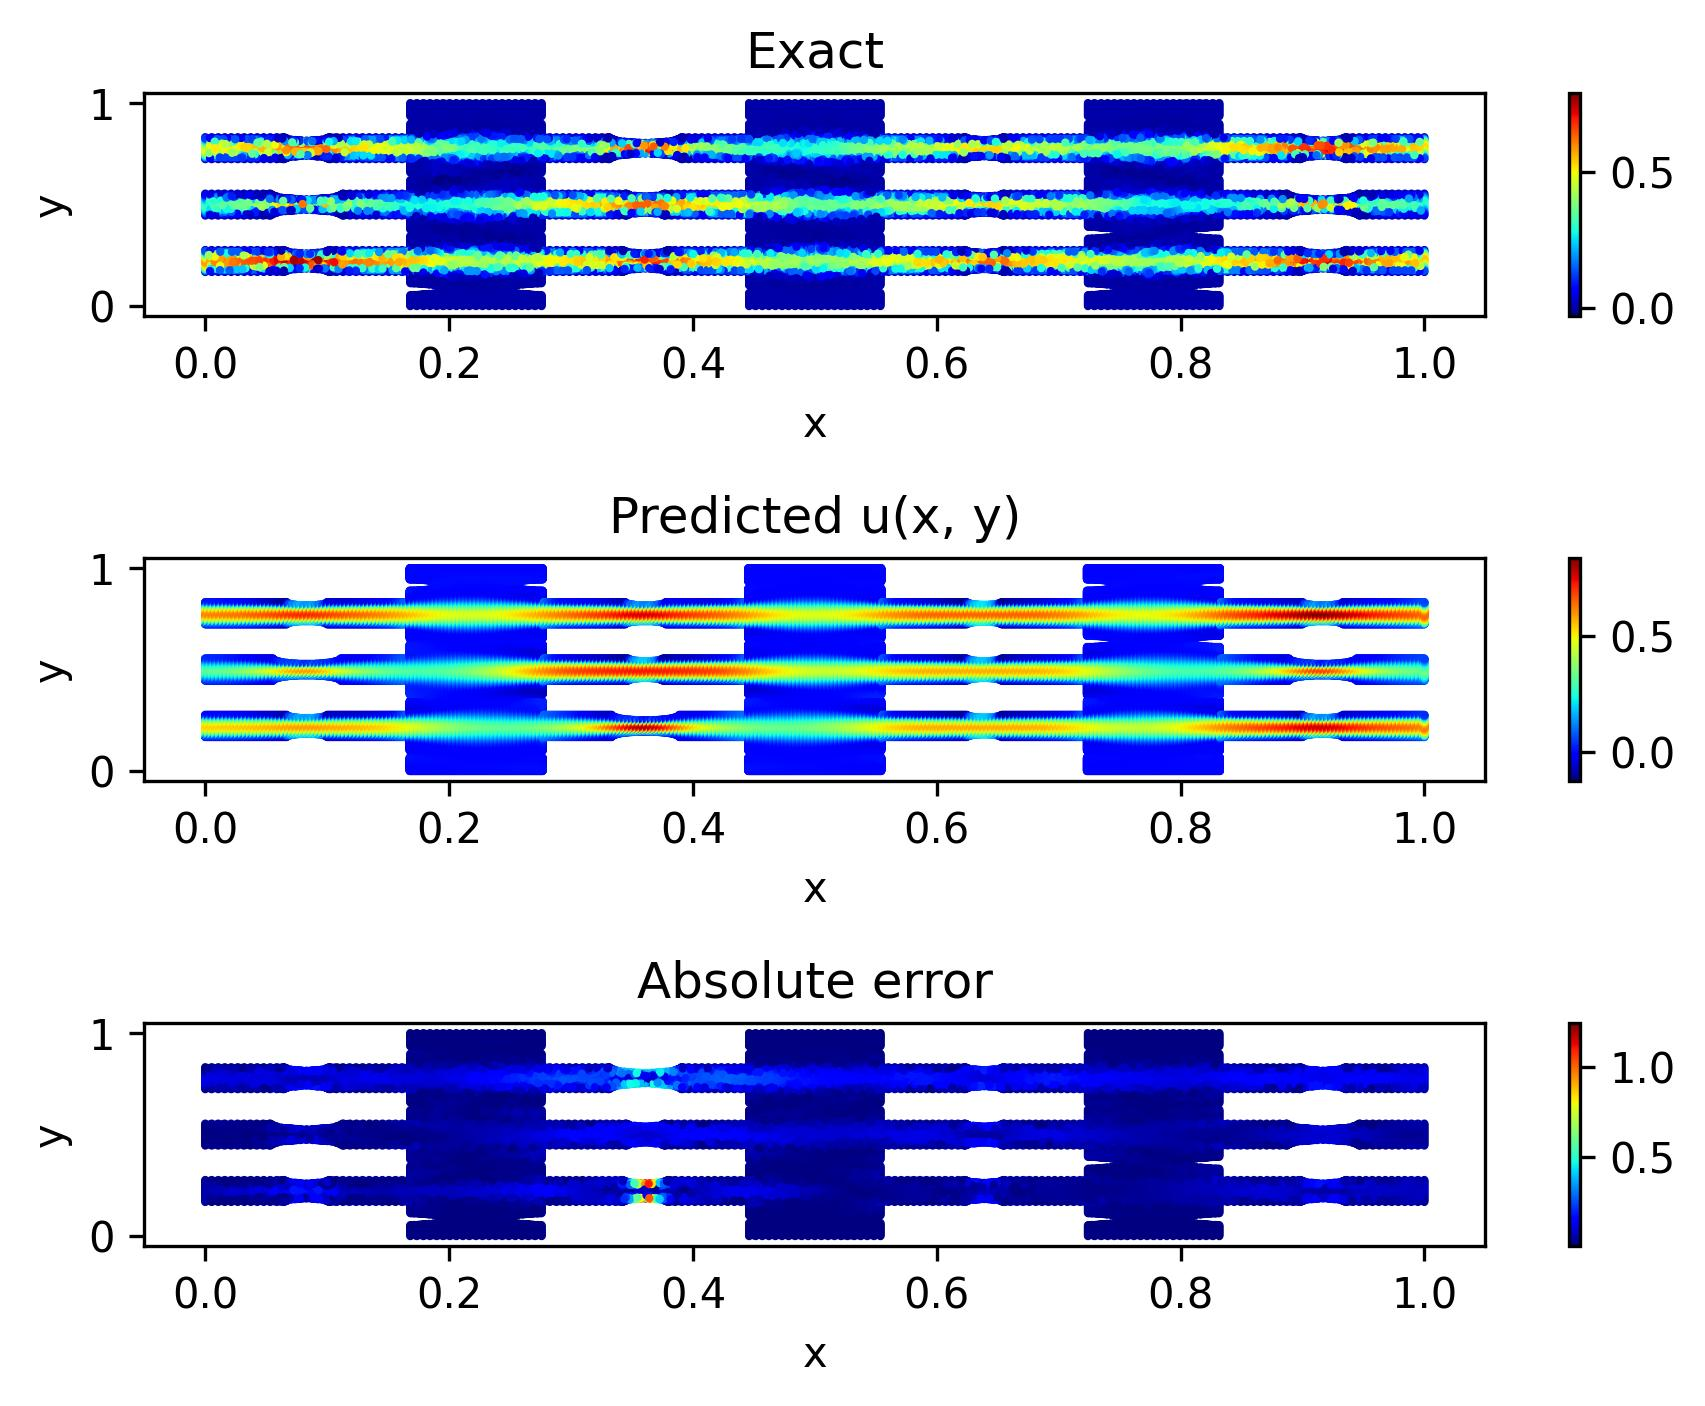
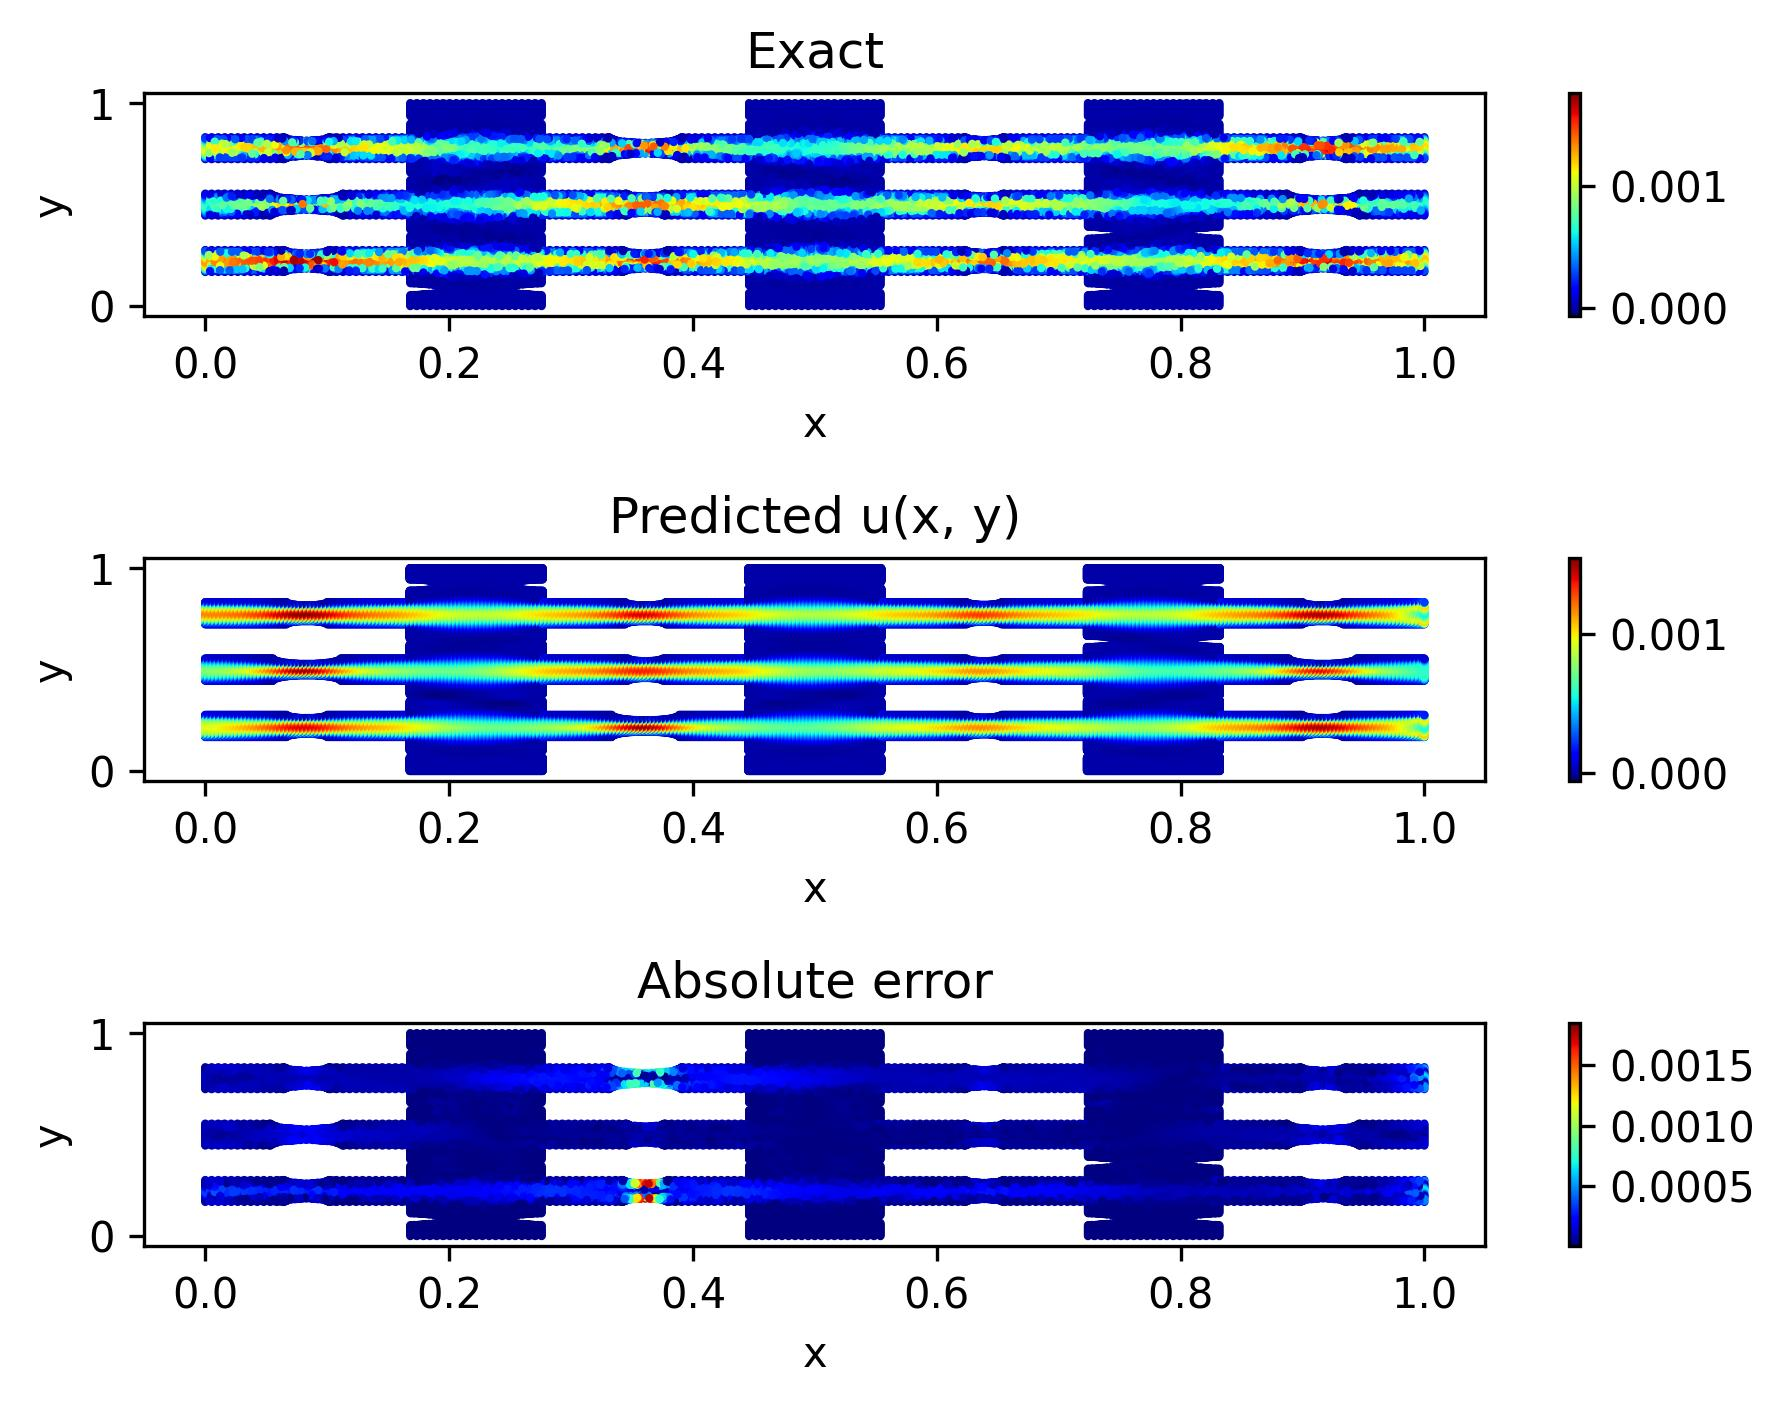
geom3x3_2ph_3 rodando, conferir os resultados ainda

diff --git a/examples/geom3x3_2ph_3/models.py b/examples/geom3x3_2ph_3/models.py
@@ -70,7 +70,7 @@ class NavierStokes2DwSat(ForwardIVP):
         v = outputs[1]
         p = outputs[2]
         s = outputs[3]
-        return u, v, p, s
+        return u*0.001, v*0.0001, p, s
 
     def u_net(self, params, t, x, y):
         u, _, _, _ = self.neural_net(params, t, x, y)
@@ -306,9 +306,9 @@ class NavierStokes2DwSat(ForwardIVP):
             )
 
         ntk_dict = {
-            # "u_ic": u_ic_ntk,
-            # "v_ic": v_ic_ntk,
-            # "p_ic": p_ic_ntk,
+            "u_ic": u_ic_ntk,
+            "v_ic": v_ic_ntk,
+            "p_ic": p_ic_ntk,
             "s_ic": s_ic_ntk,
             "p_in": p_in_ntk,
             "p_out": p_out_ntk,
@@ -339,12 +339,12 @@ class NavierStokes2DwSat(ForwardIVP):
 
         u_ic_pred = self.u0_pred_fn(params, 0.0, coords_batch[:, 0], coords_batch[:, 1])
         v_ic_pred = self.v0_pred_fn(params, 0.0, coords_batch[:, 0], coords_batch[:, 1])
-        # p_ic_pred = self.p0_pred_fn(params, 0.0, coords_batch[:, 0], coords_batch[:, 1])
+        p_ic_pred = self.p0_pred_fn(params, 0.0, coords_batch[:, 0], coords_batch[:, 1])
         s_ic_pred = self.s0_pred_fn(params, 0.0, coords_batch[:, 0], coords_batch[:, 1])
 
         u_ic_loss = jnp.mean((u_ic_pred - u_batch) ** 2)
         v_ic_loss = jnp.mean((v_ic_pred - v_batch) ** 2)
-        # p_ic_loss = jnp.mean((p_ic_pred - p_batch) ** 2)
+        p_ic_loss = jnp.mean((p_ic_pred - p_batch) ** 2)
         s_ic_loss = jnp.mean((s_ic_pred - s_batch) ** 2)
 
         # inflow outflow loss
@@ -403,9 +403,9 @@ class NavierStokes2DwSat(ForwardIVP):
             rs_loss = jnp.mean(rs_pred**2)
 
         loss_dict = {
-            # "u_ic": u_ic_loss,
-            # "v_ic": v_ic_loss,
-            # "p_ic": p_ic_loss,
+            "u_ic": u_ic_loss,
+            "v_ic": v_ic_loss,
+            "p_ic": p_ic_loss,
             "s_ic": s_ic_loss,
             "p_in": p_in_loss,
             "p_out": p_out_loss,

diff --git a/examples/geom3x3/utils.py b/examples/geom3x3/utils.py
@@ -46,16 +46,24 @@ def get_coords():
     wall_coords[:,1] = np.abs(-1*wall_coords[:,1])
     contour_points[:,1] = np.abs(-1*contour_points[:,1])
 
-    return jax.device_put(X/1000/1000), \
-            jax.device_put(inflow_coords/1000/1000), \
-            jax.device_put(outflow_coords/1000/1000), \
-            jax.device_put(wall_coords/1000/1000), \
-            jax.device_put(contour_points/1000/1000)
+    return jax.device_put(X), \
+            jax.device_put(inflow_coords), \
+            jax.device_put(outflow_coords), \
+            jax.device_put(wall_coords), \
+            jax.device_put(contour_points)
 
 
 def get_dataset():
     u_fem, v_fem, p_fem, coords_fem = get_fem_data()
     coords, inflow_coords, outflow_coords, wall_coords, cylinder_coords = get_coords()
+    scale = 1/1000/1000
+    coords, inflow_coords, outflow_coords, wall_coords, cylinder_coords = (
+        coords*scale,
+        inflow_coords*scale, 
+        outflow_coords*scale, 
+        wall_coords*scale, 
+        cylinder_coords*scale
+    )
     mu = .1
     rho = 1000
 

diff --git a/examples/geom3x3/train.py b/examples/geom3x3/train.py
@@ -44,11 +44,12 @@ def train_and_evaluate(config: ml_collections.ConfigDict, workdir: str):
         mu, rho
     ) = get_dataset()
 
-    U_max = .0002#17#.25/3#visc .1
-    V_max = U_max/10*2
-    
+    dp = 10
     L_max = 900/1000/1000
-    pmax = mu*U_max/L_max
+    U_max = dp*L_max/mu
+    pmax =dp
+    Re = rho*dp*(L_max**2)/(mu**2)
+    print(f'Re={Re}')
     
     # print(pmax)
     # print(dsa)
@@ -61,7 +62,6 @@ def train_and_evaluate(config: ml_collections.ConfigDict, workdir: str):
     if config.nondim == True:
         # Nondimensionalization parameters
         U_star = U_max # 0.2  # characteristic velocity
-        V_star = V_max
         L_star = L_max #0.1  # characteristic length
         Re = rho * U_star * L_star / mu
 
@@ -78,7 +78,7 @@ def train_and_evaluate(config: ml_collections.ConfigDict, workdir: str):
         u_ref = u_fem / U_star
         v_ref = v_fem / U_star
         p_ref = p_fem / pmax
-        p_inflow = 10 / pmax
+        p_inflow = dp / pmax
 
     else:
         U_star = 1.0

diff --git a/examples/geom3x3_2ph_3/configs/default.py b/examples/geom3x3_2ph_3/configs/default.py
@@ -5,7 +5,7 @@ def get_config():
     """Get the default hyperparameter configuration."""
     config = ml_collections.ConfigDict()
 
-    config.mode = "eval"
+    config.mode = "train"
 
     # Weights & Biases
     config.wandb = wandb = ml_collections.ConfigDict()
@@ -19,8 +19,8 @@ def get_config():
     # Arch
     config.arch = arch = ml_collections.ConfigDict()
     arch.arch_name = "ModifiedMlp"
-    arch.num_layers = 9
-    arch.hidden_dim = 512
+    arch.num_layers = 10
+    arch.hidden_dim = 250
     arch.out_dim = 4
     arch.activation = "tanh"  # gelu works better than tanh for this problem
     arch.periodicity = False
@@ -56,9 +56,9 @@ def get_config():
     config.weighting = weighting = ml_collections.ConfigDict()
     weighting.scheme = "grad_norm"
     weighting.init_weights = {
-        # "u_ic": 1.0,
-        # "v_ic": 1.0,
-        # "p_ic": 1.0,
+        "u_ic": 1.0,
+        "v_ic": 1.0,
+        "p_ic": 1.0,
         "s_ic": 1.0,
         "p_in": 1.0,
         "p_out": 1.0,

diff --git a/examples/geom3x3/eval.py b/examples/geom3x3/eval.py
@@ -38,19 +38,18 @@ def evaluate(config: ml_collections.ConfigDict, workdir: str):
         mu, rho
     ) = get_dataset()
     
-
-    U_max = .0002#17#.25/3#visc .1
-    V_max = U_max/10*2
-    
+    dp = 10
     L_max = 900/1000/1000
-    pmax = mu*U_max/L_max
+    U_max = dp*L_max/mu
+    pmax =dp
+    Re = rho*dp*(L_max**2)/(mu**2)
+    print(f'Re={Re}')
     
 
     # Nondimensionalization
     if config.nondim == True:
         # Nondimensionalization parameters
         U_star = U_max # 0.2  # characteristic velocity
-        V_star = V_max
         L_star = L_max #0.1  # characteristic length
         Re = rho * U_star * L_star / mu
 
@@ -69,7 +68,7 @@ def evaluate(config: ml_collections.ConfigDict, workdir: str):
         u_ref = u_fem / U_star
         v_ref = v_fem / U_star
         p_ref = p_fem / pmax
-        p_inflow = 10 / pmax
+        p_inflow = dp / pmax
     else:
         U_star = 1.0
         L_star = 1.0

diff --git a/examples/geom3x3/configs/default.py b/examples/geom3x3/configs/default.py
@@ -7,7 +7,7 @@ def get_config():
     """Get the default hyperparameter configuration."""
     config = ml_collections.ConfigDict()
 
-    config.mode = "eval"
+    config.mode = "train"
 
     # Weights & Biases
     config.wandb = wandb = ml_collections.ConfigDict()
@@ -39,14 +39,14 @@ def get_config():
     optim.beta1 = 0.9
     optim.beta2 = 0.999
     optim.eps = 1e-8
-    optim.learning_rate = .85e-3
+    optim.learning_rate = 1e-3
     optim.decay_rate = 0.9
     optim.decay_steps = 2000
     optim.grad_accum_steps = 0
 
     # Training
     config.training = training = ml_collections.ConfigDict()
-    training.max_steps = 150000
+    training.max_steps = 100000
     training.batch_size_per_device = 1024
 
     # Weighting

diff --git a/examples/geom1x2_2ph_2/eval.py b/examples/geom1x2_2ph_2/eval.py
@@ -59,7 +59,7 @@ def evaluate(config: ml_collections.ConfigDict, workdir: str):
 
 
     D = 0# 10**(-9)
-    t1 = 3000
+    t1 = 6000
 
     T = 1.0  # final time
 
@@ -133,7 +133,7 @@ def evaluate(config: ml_collections.ConfigDict, workdir: str):
 
     # t_coords = jnp.linspace(0, t1, 20)[:-1]
     # t_coords = jnp.linspace(0, t1, 4)[:-1]
-    t_coords = jnp.array([0, .1, .2, .3, .4, .5, .6, .7, .8, .9, 1.])*t1/1 #
+    t_coords = jnp.array([0, .1, .2, .3, .4, .5, .6, .7, .8, .9, 1.])*t1/10 #
 
     u_pred_list = []
     v_pred_list = []

diff --git a/examples/geom3x3_2ph_3/train.py b/examples/geom3x3_2ph_3/train.py
@@ -179,12 +179,16 @@ def train_and_evaluate(config: ml_collections.ConfigDict, workdir: str):
     ) = get_dataset(pin=pin)
 
     fluid_params = (mu0, mu1, rho0, rho1)
-    U_max = .0002 
+    dp = 10
     L_max = 900/1000/1000
-    pmax = mu0*U_max/L_max#*36
-
-    D = 0# 10**(-9)
-    t1 = .01
+    U_max = dp*L_max/mu0
+    pmax =dp
+    Re = rho0*dp*(L_max**2)/(mu0**2)
+    print(f'Re={Re}')
+    
+    D = 0#
+    t1=150
+    
     # (
     #     fine_coords,
     #     fine_coords_near_cyl,

diff --git a/examples/geom3x3/models.py b/examples/geom3x3/models.py
@@ -54,7 +54,7 @@ class NavierStokes2D(ForwardBVP):
         u = outputs[0]
         v = outputs[1]
         p = outputs[2]
-        return u, v, p
+        return u*0.001, v*0.0001, p
 
     def u_net(self, params, x, y):
         u, _, _ = self.neural_net(params, x, y)

diff --git a/examples/geom1x2_2ph_2/configs/default.py b/examples/geom1x2_2ph_2/configs/default.py
@@ -5,7 +5,7 @@ def get_config():
     """Get the default hyperparameter configuration."""
     config = ml_collections.ConfigDict()
 
-    config.mode = "train"
+    config.mode = "eval"
 
     # Weights & Biases
     config.wandb = wandb = ml_collections.ConfigDict()

diff --git a/examples/geom1x2_2ph_2/train.py b/examples/geom1x2_2ph_2/train.py
@@ -187,7 +187,7 @@ def train_and_evaluate(config: ml_collections.ConfigDict, workdir: str):
     print(f'Re={Re}')
     
 
-    D = 0# 10**(-9)
+    10**(-9)
     t1 = 300 #.1*10/.01
     # (
     #     fine_coords,
